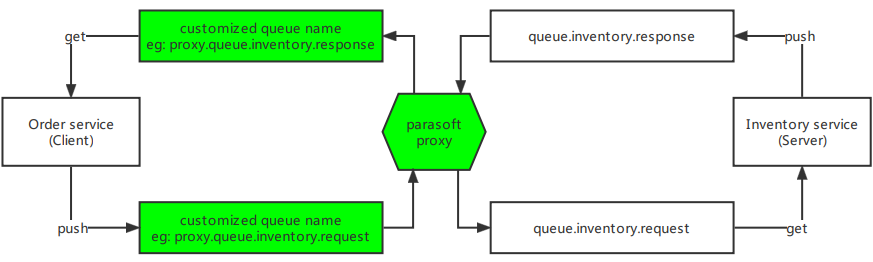
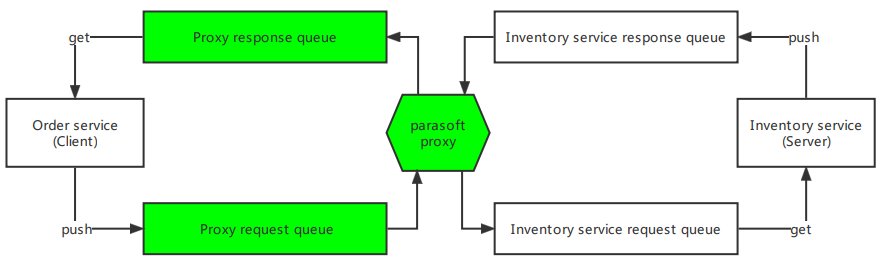
@task PDA-1313 Update readme graphs with queue names

Changed region(s): [[0.0619, 0.0305, 0.9588, 0.9771], [0.5258, 0.3664, 1.0, 0.9771], [0.0, 0.3664, 0.1856, 0.8244]]

diff --git a/README.md b/README.md
@@ -76,7 +76,7 @@ Parasoft Demo Application exposes port 9001 for the user to connect to the HSQLD
 | Username | `SA`                                                |
 | Password | `pass`                                              |
 
-## Using Parasoft JMS/MQ Proxy and Virtual Asset
+## Using Parasoft JMS Proxy and Virtual Asset
 There are two main services for order management in PDA, **order service** and **inventory service**. After an order is submitted, order service sends
 a request through messaging queue to check and decrease the inventory. After the operation is done, inventory service sends a response through messaging queue which includes the information of the operation result.
 
@@ -98,8 +98,8 @@ The configuration for queues can be changed or reset to default on PDA Demo Admi
 
 <img src="src/main/resources/static/common/images/mq_default_mode_diagram.png" alt="mq default mode diagram">
 
-### Using JMS/MQ Proxy
-To use the queueing system with JMS/MQ proxy, you can change **Destination queue** and **Reply to queue** to customized queue names.
+### Using JMS Proxy
+To use the queueing system with JMS proxy, you can change **Destination queue** and **Reply to queue** to customized queue names.
 The **Client Connection** in message proxy should be configured with the two customized queues.
 The **Server Connection** in message proxy should be configured with the two default queues.
 
